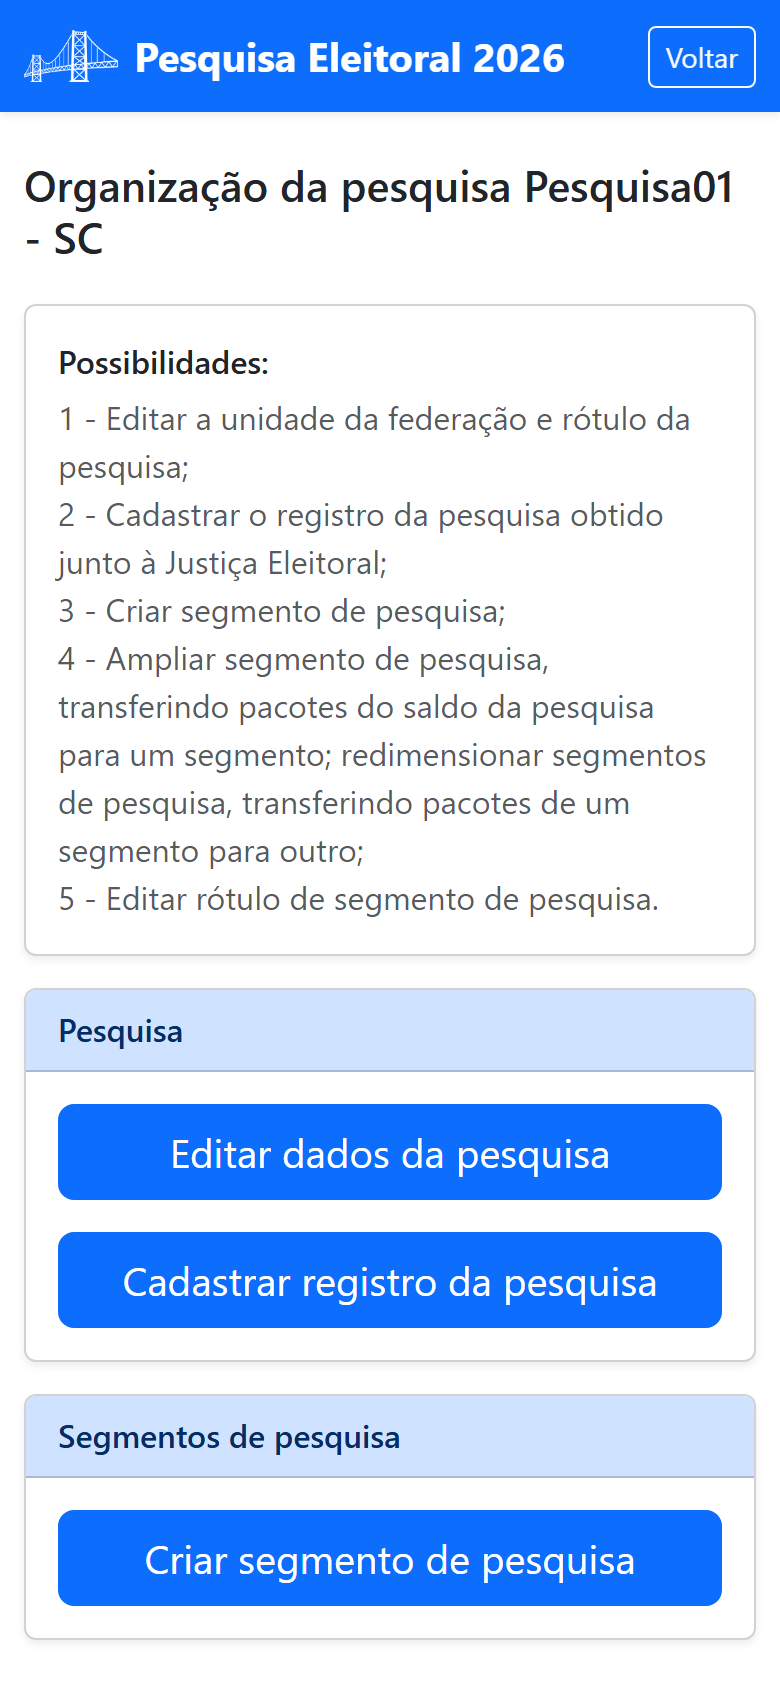
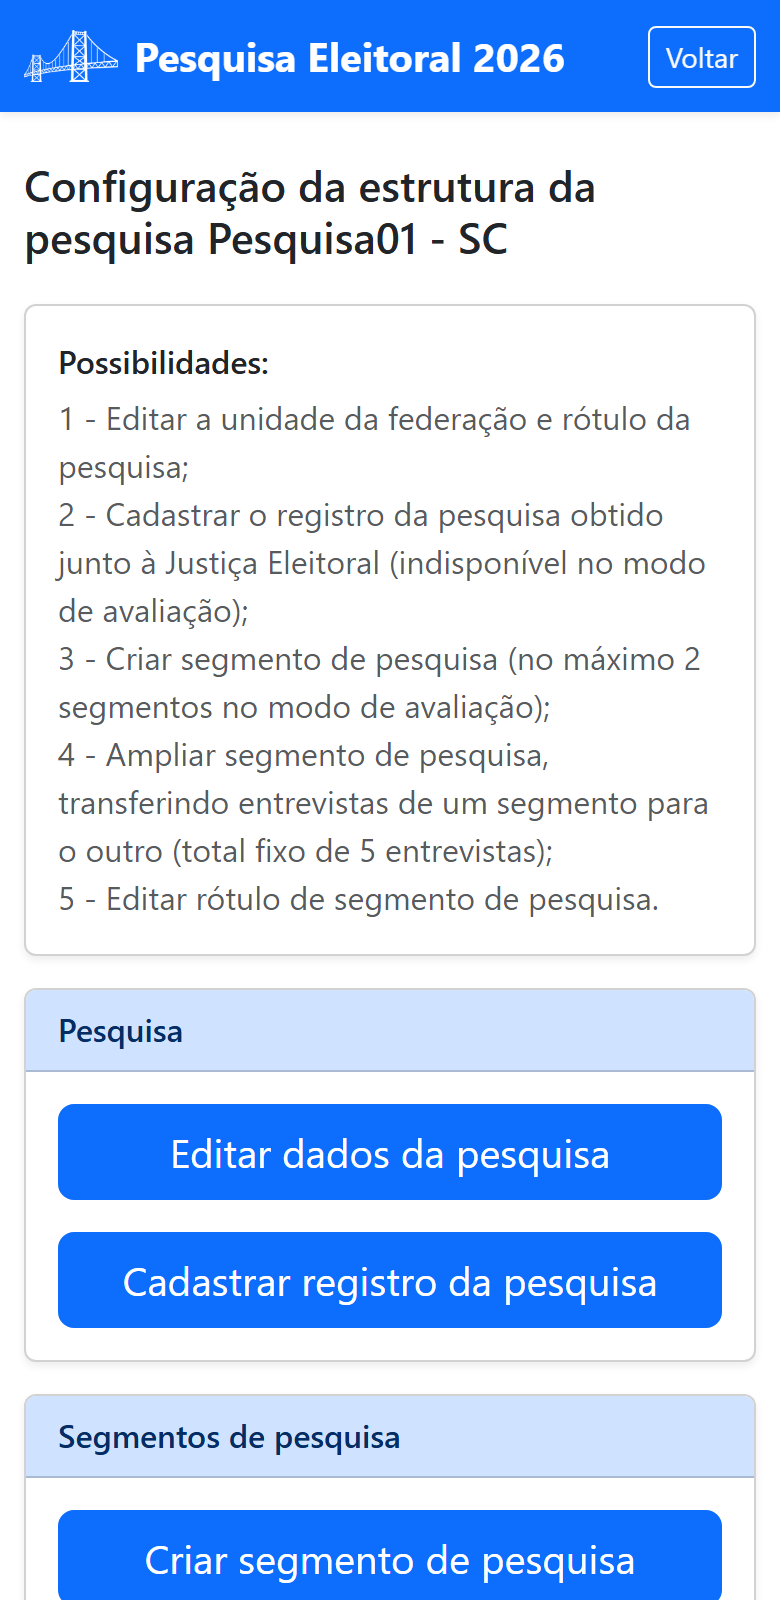
Guia do coordenador: vocabulario questionario, funcionalidades renomeadas e capturas refeitas
- "formulario" -> "questionario" no paragrafo dos Termos do modo de avaliacao (15);
- "Organizar pesquisa" -> "Configurar estrutura da pesquisa" e "Configurar pesquisa"
  -> "Configurar questionario da pesquisa" (05, 07, 10, 16, index e navegacao);
- cinco capturas refeitas: 04, 06, 10, 13 e 19 (a 19 agora no modo de operacao,
  coerente com a figura vizinha, que mostra 1100 entrevistas).

Fonte: pesquisa_eleitoral_2026 cb8295c

diff --git a/15-termos-completos.html b/15-termos-completos.html
@@ -99,7 +99,7 @@ cada regra foi comentada na função a que se refere.</p>
 <p>Nesta condição, você tem acesso a uma pesquisa de avaliação que contém cinco entrevistas, que podem ser distribuídas a até dois entrevistadores. A pesquisa pode ser organizada em até dois segmentos.</p>
 <p>Em modo de avaliação, você pode examinar a criação de segmentos de pesquisa, o cadastro de entrevistadores, a distribuição de entrevistas entre entrevistadores.</p>
 <p>Você pode configurar a pesquisa por meio da remoção de sessões do questionário de pesquisa, assim como pode explorar a inserção de arquivos de pré-candidaturas.</p>
-<p>Uma vez aplicada uma ou mais entrevistas, em um contexto real ou simulado, à sua escolha, você pode ter acesso aos resultados da pesquisa, que vão sendo atualizados na medida em que novos formulários preenchidos (novas entrevistas) são inseridos.</p>
+<p>Uma vez aplicada uma ou mais entrevistas, em um contexto real ou simulado, à sua escolha, você pode ter acesso aos resultados da pesquisa, que vão sendo atualizados na medida em que novos questionários preenchidos (novas entrevistas) são inseridos.</p>
 <p>Você pode sair do modo de avaliação para o modo de operação a qualquer momento, à sua escolha. Porém, a saída do modo de avaliação é irreversível. E, uma vez que ocorra a saída do modo de avaliação, você deixa de ter acesso à pesquisa de avaliação conduzida.</p>
 
 <nav class="pager">

diff --git a/07-organizar.html b/07-organizar.html
@@ -3,7 +3,7 @@
 <head>
 <meta charset="utf-8">
 <meta name="viewport" content="width=device-width, initial-scale=1">
-<title>7. Organizar a pesquisa | Guia do Coordenador(a)</title>
+<title>7. Configurar a estrutura da pesquisa | Guia do Coordenador(a)</title>
 <link rel="stylesheet" href="styles.css">
 </head>
 <body>
@@ -12,14 +12,14 @@
 
 <header>
   <p class="crumb">Parte 3 — Modo de operação</p>
-  <h1>7. Organizar a pesquisa</h1>
+  <h1>7. Configurar a estrutura da pesquisa</h1>
 </header>
 
-<p>Em <strong>Organizar pesquisa</strong> você cuida da “moldura” da pesquisa: seu nome e UF, o
+<p>Em <strong>Configurar estrutura da pesquisa</strong> você cuida da “moldura” da pesquisa: seu nome e UF, o
 registro na Justiça Eleitoral e os segmentos. A tela abre com uma lista de
 <strong>Possibilidades</strong> e cartões para cada ação.</p>
 <figure class="shot"><img src="images/10-organizar.png" alt="Tela de organização da pesquisa">
-  <figcaption>Organizar a pesquisa</figcaption></figure>
+  <figcaption>Configurar a estrutura da pesquisa</figcaption></figure>
 
 <h2>7.1 Editar dados da pesquisa (rótulo e UF)</h2>
 <p>Toque em <strong>Editar dados da pesquisa</strong> para mudar o <strong>rótulo</strong>

diff --git a/05-boas-vindas-gestao.html b/05-boas-vindas-gestao.html
@@ -69,9 +69,9 @@ que lista, <strong>pelo nome</strong>, os entrevistadores vinculados à pesquisa
   <li><strong>Ver resultados</strong> (<a href="12-resultados.html">§12</a>);</li>
   <li><strong>Entrevistadores da pesquisa</strong> (<a href="08-entrevistadores.html">§8</a>);</li>
   <li><strong>Adquirir entrevistas</strong> (<a href="06-adquirir.html">§6</a>);</li>
-  <li><strong>Organizar pesquisa</strong> (<a href="07-organizar.html">§7</a>);</li>
+  <li><strong>Configurar estrutura da pesquisa</strong> (<a href="07-organizar.html">§7</a>);</li>
   <li><strong>Distribuir entrevistas</strong> (<a href="09-distribuir.html">§9</a>);</li>
-  <li><strong>Configurar pesquisa</strong> (<a href="10-configurar.html">§10</a>);</li>
+  <li><strong>Configurar questionário da pesquisa</strong> (<a href="10-configurar.html">§10</a>);</li>
   <li><strong>Autorizar início da pesquisa</strong> e <strong>Iniciar entrevista</strong> (<a href="11-autorizar-iniciar.html">§11</a>);</li>
   <li><strong>Gerenciar outra pesquisa</strong> / <strong>Criar nova pesquisa</strong> (<a href="13-multiplas-pesquisas.html">§13</a>);</li>
   <li><strong>Voltar</strong> e <strong>Sair</strong>.</li>

diff --git a/index.html b/index.html
@@ -58,7 +58,7 @@ Comece pela <a href="03-modo-avaliacao.html">Parte 2</a> e, para o dia a dia, co
       <span class="desc">A tela inicial, o menu e o painel com os saldos da pesquisa.</span></li>
   <li><a href="06-adquirir.html">6. Adquirir entrevistas</a>
       <span class="desc">Comprar pacotes de 100 entrevistas, valores e código de desconto.</span></li>
-  <li><a href="07-organizar.html">7. Organizar a pesquisa</a>
+  <li><a href="07-organizar.html">7. Configurar a estrutura da pesquisa</a>
       <span class="desc">Rótulo e UF, registro na Justiça Eleitoral, segmentos e redimensionamento.</span></li>
   <li><a href="08-entrevistadores.html">8. Entrevistadores</a>
       <span class="desc">Cadastrar, definir cota, habilitar/desabilitar e remover entrevistadores.</span></li>

diff --git a/10-configurar.html b/10-configurar.html
@@ -15,7 +15,7 @@
   <h1>10. Configurar o questionário</h1>
 </header>
 
-<p>Em <strong>Configurar pesquisa</strong> você ajusta o <strong>questionário</strong> que os
+<p>Em <strong>Configurar questionário da pesquisa</strong> você ajusta o <strong>questionário</strong> que os
 entrevistadores vão aplicar. Duas possibilidades: <strong>remover seções</strong> inteiras e
 <strong>inserir listas de pré-candidaturas</strong>.</p>
 <figure class="shot"><img src="images/13-configurar.png" alt="Tela de configuração do questionário">

diff --git a/16-duvidas.html b/16-duvidas.html
@@ -17,7 +17,7 @@
 
 <h2>16.1 Quando algo não funciona</h2>
 
-<h3>O botão “Configurar pesquisa” está bloqueado</h3>
+<h3>O botão “Configurar questionário da pesquisa” está bloqueado</h3>
 <p>Provavelmente o início da pesquisa <strong>já foi autorizado</strong> — e isso bloqueia a
 configuração de forma definitiva (<a href="11-autorizar-iniciar.html">§11</a>). Também pode faltar
 o mínimo de <strong>1.000 entrevistas</strong> exigido para alterar o questionário

diff --git a/06-adquirir.html b/06-adquirir.html
@@ -72,7 +72,7 @@ o código válido, o preço dos 10 primeiros pacotes cai para R$ 250 cada.</p>
 <nav class="pager">
   <a class="prev" href="05-boas-vindas-gestao.html">‹ Anterior: Boas-vindas e painel de gestão</a>
   <a class="home" href="index.html">Índice</a>
-  <a class="next" href="07-organizar.html">Próximo: Organizar a pesquisa ›</a>
+  <a class="next" href="07-organizar.html">Próximo: Configurar a estrutura da pesquisa ›</a>
 </nav>
 
 </main>

diff --git a/08-entrevistadores.html b/08-entrevistadores.html
@@ -105,7 +105,7 @@ ela pode ser engajada em outra pesquisa sua, ou por outro coordenador.</blockquo
 </aside>
 
 <nav class="pager">
-  <a class="prev" href="07-organizar.html">‹ Anterior: Organizar a pesquisa</a>
+  <a class="prev" href="07-organizar.html">‹ Anterior: Configurar a estrutura da pesquisa</a>
   <a class="home" href="index.html">Índice</a>
   <a class="next" href="09-distribuir.html">Próximo: Distribuir entrevistas ›</a>
 </nav>
